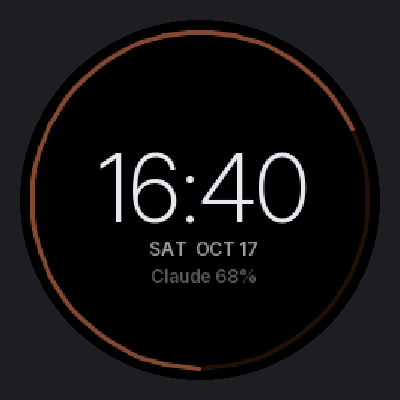
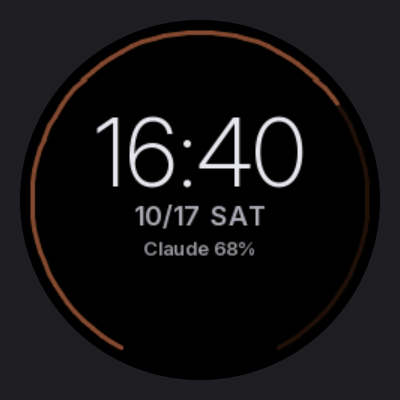
README 預覽圖片更新為目前畫面（韌體 1.6.5），可在 Windows 重新產生
- preview.png / preview-pages.png / preview-saver.png / preview.gif 重新產生：
  小圓點在 6 點鐘缺口、只用顏色；新增今日統計頁；時鐘整組置中
- firmware/preview/build-preview.ps1：用 zig 編譯、不需要 SDL（win/ 平台替身），compose/ 用 Go 合成圖片
- README 加上各頁面圖片；CLAUDE.md、release skill 說明怎麼重新產生

diff --git a/firmware/preview/compose/main.go b/firmware/preview/compose/main.go
@@ -1,0 +1,128 @@
+// 把 firmware/preview 產生的 240×240 PPM 合成為 README 用的圖片（圓形遮罩、深灰底）
+package main
+
+import (
+	"bufio"
+	"fmt"
+	"image"
+	"image/color"
+	"image/color/palette"
+	"image/draw"
+	"image/gif"
+	"image/png"
+	"io"
+	"math"
+	"os"
+	"path/filepath"
+	"sort"
+)
+
+var bg = color.RGBA{30, 30, 34, 255}
+
+func readPPM(p string) *image.RGBA {
+	f, err := os.Open(p)
+	if err != nil {
+		panic(err)
+	}
+	defer f.Close()
+	r := bufio.NewReader(f)
+	var w, h, mx int
+	fmt.Fscanf(r, "P6 %d %d %d\n", &w, &h, &mx)
+	im := image.NewRGBA(image.Rect(0, 0, w, h))
+	buf := make([]byte, w*h*3)
+	if _, err := io.ReadFull(r, buf); err != nil {
+		panic(err)
+	}
+	for i := 0; i < w*h; i++ {
+		im.Pix[i*4], im.Pix[i*4+1], im.Pix[i*4+2], im.Pix[i*4+3] = buf[i*3], buf[i*3+1], buf[i*3+2], 255
+	}
+	return im
+}
+
+// 縮放（雙線性）＋圓形遮罩（邊緣抗鋸齒），畫到 dst 的 (ox, oy)
+func put(dst *image.RGBA, src *image.RGBA, ox, oy, size int) {
+	s := float64(src.Bounds().Dx()) / float64(size)
+	R := float64(size) / 2
+	for y := 0; y < size; y++ {
+		for x := 0; x < size; x++ {
+			dx, dy := float64(x)+0.5-R, float64(y)+0.5-R
+			a := math.Max(0, math.Min(1, R-math.Hypot(dx, dy)+0.5))
+			if a == 0 {
+				continue
+			}
+			fx, fy := (float64(x)+0.5)*s-0.5, (float64(y)+0.5)*s-0.5
+			x0, y0 := int(math.Floor(fx)), int(math.Floor(fy))
+			tx, ty := fx-float64(x0), fy-float64(y0)
+			var c [3]float64
+			for k := 0; k < 4; k++ {
+				xx, yy := x0+k%2, y0+k/2
+				if xx < 0 {
+					xx = 0
+				}
+				if yy < 0 {
+					yy = 0
+				}
+				if xx > 239 {
+					xx = 239
+				}
+				if yy > 239 {
+					yy = 239
+				}
+				wx, wy := 1-tx, 1-ty
+				if k%2 == 1 {
+					wx = tx
+				}
+				if k/2 == 1 {
+					wy = ty
+				}
+				wgt := wx * wy
+				o := src.PixOffset(xx, yy)
+				for j := 0; j < 3; j++ {
+					c[j] += wgt * float64(src.Pix[o+j])
+				}
+			}
+			o := dst.PixOffset(ox+x, oy+y)
+			for j := 0; j < 3; j++ {
+				dst.Pix[o+j] = uint8(a*c[j] + (1-a)*float64(dst.Pix[o+j]) + 0.5)
+			}
+		}
+	}
+}
+
+func strip(in string, names []string, out string) {
+	const size, gap = 360, 20
+	W := gap + len(names)*(size+gap)
+	im := image.NewRGBA(image.Rect(0, 0, W, size+2*gap))
+	draw.Draw(im, im.Bounds(), &image.Uniform{bg}, image.Point{}, draw.Src)
+	for i, n := range names {
+		put(im, readPPM(filepath.Join(in, n+".ppm")), gap+i*(size+gap), gap, size)
+	}
+	w, _ := os.Create(out)
+	png.Encode(w, im)
+	w.Close()
+}
+
+func main() {
+	// 用法：go run main.go <PPM 目錄> <輸出目錄>
+	in, outDir := os.Args[1], os.Args[2]
+	strip(in, []string{"review", "working", "done", "error", "idle", "nolink"}, filepath.Join(outDir, "preview.png"))
+	strip(in, []string{"idle", "page1", "page2", "page3", "saver"}, filepath.Join(outDir, "preview-pages.png"))
+	strip(in, []string{"saver"}, filepath.Join(outDir, "preview-saver.png"))
+	// 動畫 GIF：320×320，每格 80ms
+	fs, _ := filepath.Glob(filepath.Join(in, "anim_*.ppm"))
+	sort.Strings(fs)
+	g := &gif.GIF{}
+	for _, f := range fs {
+		im := image.NewRGBA(image.Rect(0, 0, 320, 320))
+		draw.Draw(im, im.Bounds(), &image.Uniform{bg}, image.Point{}, draw.Src)
+		put(im, readPPM(f), 0, 0, 320)
+		p := image.NewPaletted(im.Bounds(), palette.Plan9)
+		draw.Draw(p, p.Bounds(), im, image.Point{}, draw.Src)
+		g.Image = append(g.Image, p)
+		g.Delay = append(g.Delay, 8)
+	}
+	w, _ := os.Create(filepath.Join(outDir, "preview.gif"))
+	gif.EncodeAll(w, g)
+	w.Close()
+	fmt.Println("frames", len(fs))
+}

diff --git a/firmware/preview/win/stub.hpp b/firmware/preview/win/stub.hpp
@@ -1,0 +1,108 @@
+// 由 LovyanGFX platforms/sdl/common.hpp 改寫：拿掉 SDL，只保留 sprite 需要的平台宣告（預覽用）
+/*----------------------------------------------------------------------------/
+  Lovyan GFX - Graphics library for embedded devices.
+
+Original Source:
+ https://github.com/lovyan03/LovyanGFX/
+
+Licence:
+ [FreeBSD](https://github.com/lovyan03/LovyanGFX/blob/master/license.txt)
+
+Author:
+ [lovyan03](https://twitter.com/lovyan03)
+
+Contributors:
+ [ciniml](https://github.com/ciniml)
+ [mongonta0716](https://github.com/mongonta0716)
+ [tobozo](https://github.com/tobozo)
+
+Porting for SDL:
+ [imliubo](https://github.com/imliubo)
+/----------------------------------------------------------------------------*/
+#pragma once
+
+#include "lgfx/v1/misc/DataWrapper.hpp"
+#include "lgfx/v1/misc/enum.hpp"
+#include "lgfx/utility/result.hpp"
+
+#include <stdlib.h>
+#include <stdio.h>
+
+
+namespace lgfx
+{
+ inline namespace v1
+ {
+//----------------------------------------------------------------------------
+  static constexpr size_t EMULATED_GPIO_MAX = 128;
+
+  unsigned long millis(void);
+
+  unsigned long micros(void);
+
+  void delay(unsigned long milliseconds);
+
+  void delayMicroseconds(unsigned int us);
+
+  static inline void* heap_alloc(      size_t length) { return malloc(length); }
+  static inline void* heap_alloc_psram(size_t length) { return malloc(length); }
+  static inline void* heap_alloc_dma(  size_t length) { return malloc(length); } // aligned_alloc(16, length);
+  static inline void heap_free(void* buf) { free(buf); }
+  static inline bool heap_capable_dma(const void* ptr) { return false; }
+
+  void gpio_hi(uint32_t pin);
+  void gpio_lo(uint32_t pin);
+  bool gpio_in(uint32_t pin);
+
+  enum pin_mode_t
+  { output
+  , input
+  , input_pullup
+  , input_pulldown
+  };
+
+  void pinMode(int_fast16_t pin, pin_mode_t mode);
+  void lgfxPinMode(int_fast16_t pin, pin_mode_t mode);
+
+//----------------------------------------------------------------------------
+
+  struct FileWrapper : public DataWrapper
+  {
+    FileWrapper() : DataWrapper()
+    {
+      need_transaction = false;
+    }
+    FILE* _fp;
+#if defined (__STDC_WANT_SECURE_LIB__)
+    bool open(const char* path) override { return (0 == fopen_s(&_fp, path, "rb")); }
+#else
+    bool open(const char* path) override { return (_fp = fopen(path, "rb")); }
+#endif
+    int read(uint8_t *buf, uint32_t len) override { return fread((char*)buf, 1, len, _fp); }
+    void skip(int32_t offset) override { seek(offset, SEEK_CUR); }
+    bool seek(uint32_t offset) override { return seek(offset, SEEK_SET); }
+    bool seek(uint32_t offset, int origin) { return fseek(_fp, offset, origin); }
+    void close() override { if (_fp) fclose(_fp); }
+    int32_t tell(void) override { return ftell(_fp); }
+  };
+
+//----------------------------------------------------------------------------
+
+  namespace spi
+  {
+    cpp::result<void, error_t> init(int spi_host, int spi_sclk, int spi_miso, int spi_mosi, int dma_channel);
+    void beginTransaction(int spi_host);
+  }
+
+//----------------------------------------------------------------------------
+
+  namespace i2c
+  {
+    static inline cpp::result<void, error_t> setPins(int i2c_port, int pin_sda, int pin_scl) { return {}; }
+    static inline cpp::result<void, error_t> init(int i2c_port) { return {}; }
+  }
+
+//----------------------------------------------------------------------------
+ }
+}
+

diff --git a/firmware/preview/win/stub.cpp b/firmware/preview/win/stub.cpp
@@ -1,0 +1,39 @@
+// 桌面版 LovyanGFX 只用 sprite 時需要的平台函式（取代 SDL 版）
+#include <LovyanGFX.hpp>
+#include <chrono>
+namespace lgfx { inline namespace v1 {
+  static auto t0 = std::chrono::steady_clock::now();
+  unsigned long millis(void) { return std::chrono::duration_cast<std::chrono::milliseconds>(std::chrono::steady_clock::now() - t0).count(); }
+  unsigned long micros(void) { return std::chrono::duration_cast<std::chrono::microseconds>(std::chrono::steady_clock::now() - t0).count(); }
+  void delay(unsigned long) {}
+  void delayMicroseconds(unsigned int) {}
+  void gpio_hi(uint32_t) {}
+  void gpio_lo(uint32_t) {}
+  bool gpio_in(uint32_t) { return false; }
+  void pinMode(int_fast16_t, pin_mode_t) {}
+  void lgfxPinMode(int_fast16_t, pin_mode_t) {}
+  namespace spi {
+    cpp::result<void, error_t> init(int, int, int, int, int) { return {}; }
+    void beginTransaction(int) {}
+    cpp::result<void, error_t> init(int, int, int, int) { return {}; }
+    void beginTransaction(int, uint32_t, int) {}
+    void endTransaction(int) {}
+    void writeBytes(int, const uint8_t*, size_t) {}
+    void readBytes(int, uint8_t*, size_t) {}
+  }
+  namespace i2c {
+    using R = cpp::result<void, error_t>;
+    R init(int, int, int) { return {}; }
+    R release(int) { return {}; }
+    R restart(int, int, uint32_t, bool) { return {}; }
+    R beginTransaction(int, int, uint32_t, bool) { return {}; }
+    R endTransaction(int) { return {}; }
+    R writeBytes(int, const uint8_t*, size_t) { return {}; }
+    R readBytes(int, uint8_t*, size_t, bool) { return {}; }
+    R transactionWrite(int, int, const uint8_t*, uint8_t, uint32_t) { return {}; }
+    R transactionRead(int, int, uint8_t*, uint8_t, uint32_t) { return {}; }
+    R transactionWriteRead(int, int, const uint8_t*, uint8_t, uint8_t*, size_t, uint32_t) { return {}; }
+    cpp::result<uint8_t, error_t> readRegister8(int, int, uint8_t, uint32_t) { return 0; }
+    R writeRegister8(int, int, uint8_t, uint8_t, uint8_t, uint32_t) { return {}; }
+  }
+}}

diff --git a/firmware/preview/preview.cpp b/firmware/preview/preview.cpp
@@ -15,6 +15,7 @@ static uint32_t g_ms = 100000;
 static uint32_t millis() { return g_ms; }
 #define PI 3.14159265358979f
 #define DEG_TO_RAD 0.017453292519943295f
+#define RAD_TO_DEG 57.29577951308232f
 static LGFX_Sprite band;
 #include "../aimon/ui.h"
 
@@ -25,7 +26,7 @@ int main() {
   struct Sc { const char* file; const char* ai; St st; float p5, pw; const char* msg; int age; int no; bool link; uint32_t ms; };
   Sc sc[] = {
     {"review.ppm",  "claude",  S_REVIEW,  45, 63, "", 12, 0, true, 100700},
-    {"working.ppm", "chatgpt", S_WORKING, -1, -1, "", 42, 2, true, 101300},
+    {"working.ppm", "chatgpt", S_WORKING, -1, -1, "", 42, 4, true, 101300},
     {"done.ppm",    "gemini",  S_DONE,    -1, -1, "", 95, 1, true, 100000},
     {"error.ppm",   "claude",  S_ERROR,   97, 80, "Usage limit", 3, 0, true, 100700},
     {"idle.ppm",    "claude",  S_IDLE,    23, 41, "", 300, 0, true, 100000},
@@ -38,8 +39,12 @@ int main() {
     f.nOthers = s.no;
     if (!strcmp(s.file, "idle.ppm")) { f.note = "5H RESETS IN 4M"; f.noteKind = 1; }
     if (!strcmp(s.file, "done.ppm")) { f.note = "CLAUDE 5H QUOTA RESET"; f.noteKind = 2; }
-    if (s.no >= 1) { f.others[0].brand = 0; f.others[0].st = S_DONE; }
-    if (s.no >= 2) { f.others[1].brand = 2; f.others[1].st = S_WORKING; }
+    // 小圓點：要你處理的在左邊（需審核 → 錯誤 → 完成 → 生成中）
+    if (s.no == 1) { f.others[0].brand = 0; f.others[0].st = S_DONE; }
+    if (s.no == 4) {
+      f.others[0] = {0, S_REVIEW}; f.others[1] = {2, S_ERROR};
+      f.others[2] = {0, S_DONE};   f.others[3] = {2, S_WORKING};
+    }
     g_frame = f; g_ms = s.ms; g_stChangedMs = 0;
     g_lastFrameMs = s.link ? g_ms - 1000 : 0;
     g_stateSinceMs = g_ms; g_stateSinceBase = s.age;

diff --git a/firmware/preview/win/fake/SDL2/SDL.h b/firmware/preview/win/fake/SDL2/SDL.h
@@ -1,0 +1,1 @@
+// 空的假 SDL 標頭：讓 LovyanGFX 選桌面平台，但不連結 SDL（預覽只用 sprite）

diff --git a/firmware/preview/win/fake/SDL2/SDL_main.h b/firmware/preview/win/fake/SDL2/SDL_main.h
@@ -1,0 +1,1 @@
+// 空的假 SDL 標頭：讓 LovyanGFX 選桌面平台，但不連結 SDL（預覽只用 sprite）

diff --git a/.claude/skills/release/SKILL.md b/.claude/skills/release/SKILL.md
@@ -73,7 +73,9 @@ push 到 GitHub 之前，先把這次（以及上次 push 之後所有還沒 pus
 
 - `README.md`：螢幕畫面、燈號、頁面、設定視窗、按鈕操作、安裝步驟有變就要改
 - `CLAUDE.md`：版本號那一行、新踩到的坑、主燈規則、待處理清單
-- 用 `git log origin/main..HEAD` 和 `git diff` 找出要寫的東西；`preview.png` / `preview.gif` 過時的話告訴使用者（要在 Linux 用 `firmware/preview/` 重新產生）
+- 用 `git log origin/main..HEAD` 和 `git diff` 找出要寫的東西；畫面（`firmware/aimon/ui.h`）有改就重新產生預覽圖片，檢查圖片跟現在的畫面一致：
+  `./firmware/preview/build-preview.ps1`（需要 zig：`winget install zig.zig`）。
+  會更新 `preview.png`、`preview-pages.png`、`preview-saver.png`、`preview.gif`；新增畫面或狀態時順便改 `firmware/preview/preview.cpp` 的場景
 
 ## 回報
 

diff --git a/CLAUDE.md b/CLAUDE.md
@@ -20,7 +20,7 @@ firmware/aimon/aimon.ino   韌體主程式（序列埠協定、BOOT 鍵、分條
 firmware/aimon/ui.h        所有畫面（韌體與 preview 共用）
 firmware/aimon/fonts.h     由 firmware/tools/fontgen.py 產生（Inter，SIL OFL）
 firmware/aimon/config.h    腳位、亮度
-firmware/preview/          在電腦上把 ui.h 渲染成圖片（Linux + SDL2 版 LovyanGFX，開發用，可略過）
+firmware/preview/          把 ui.h 渲染成 README 的預覽圖片：build-preview.ps1（zig 編譯，win/ 是不需要 SDL 的平台替身，compose/ 合成圖片）
 windows/                   Go 程式（Windows only，WebView2）
   main_windows.go          進入點、設定、序列埠連線、指令（onCmd）、狀態 JSON（uiStatusJSON）
   state.go                 偵測結果 → 送給螢幕的 Frame（可跨平台測試）
